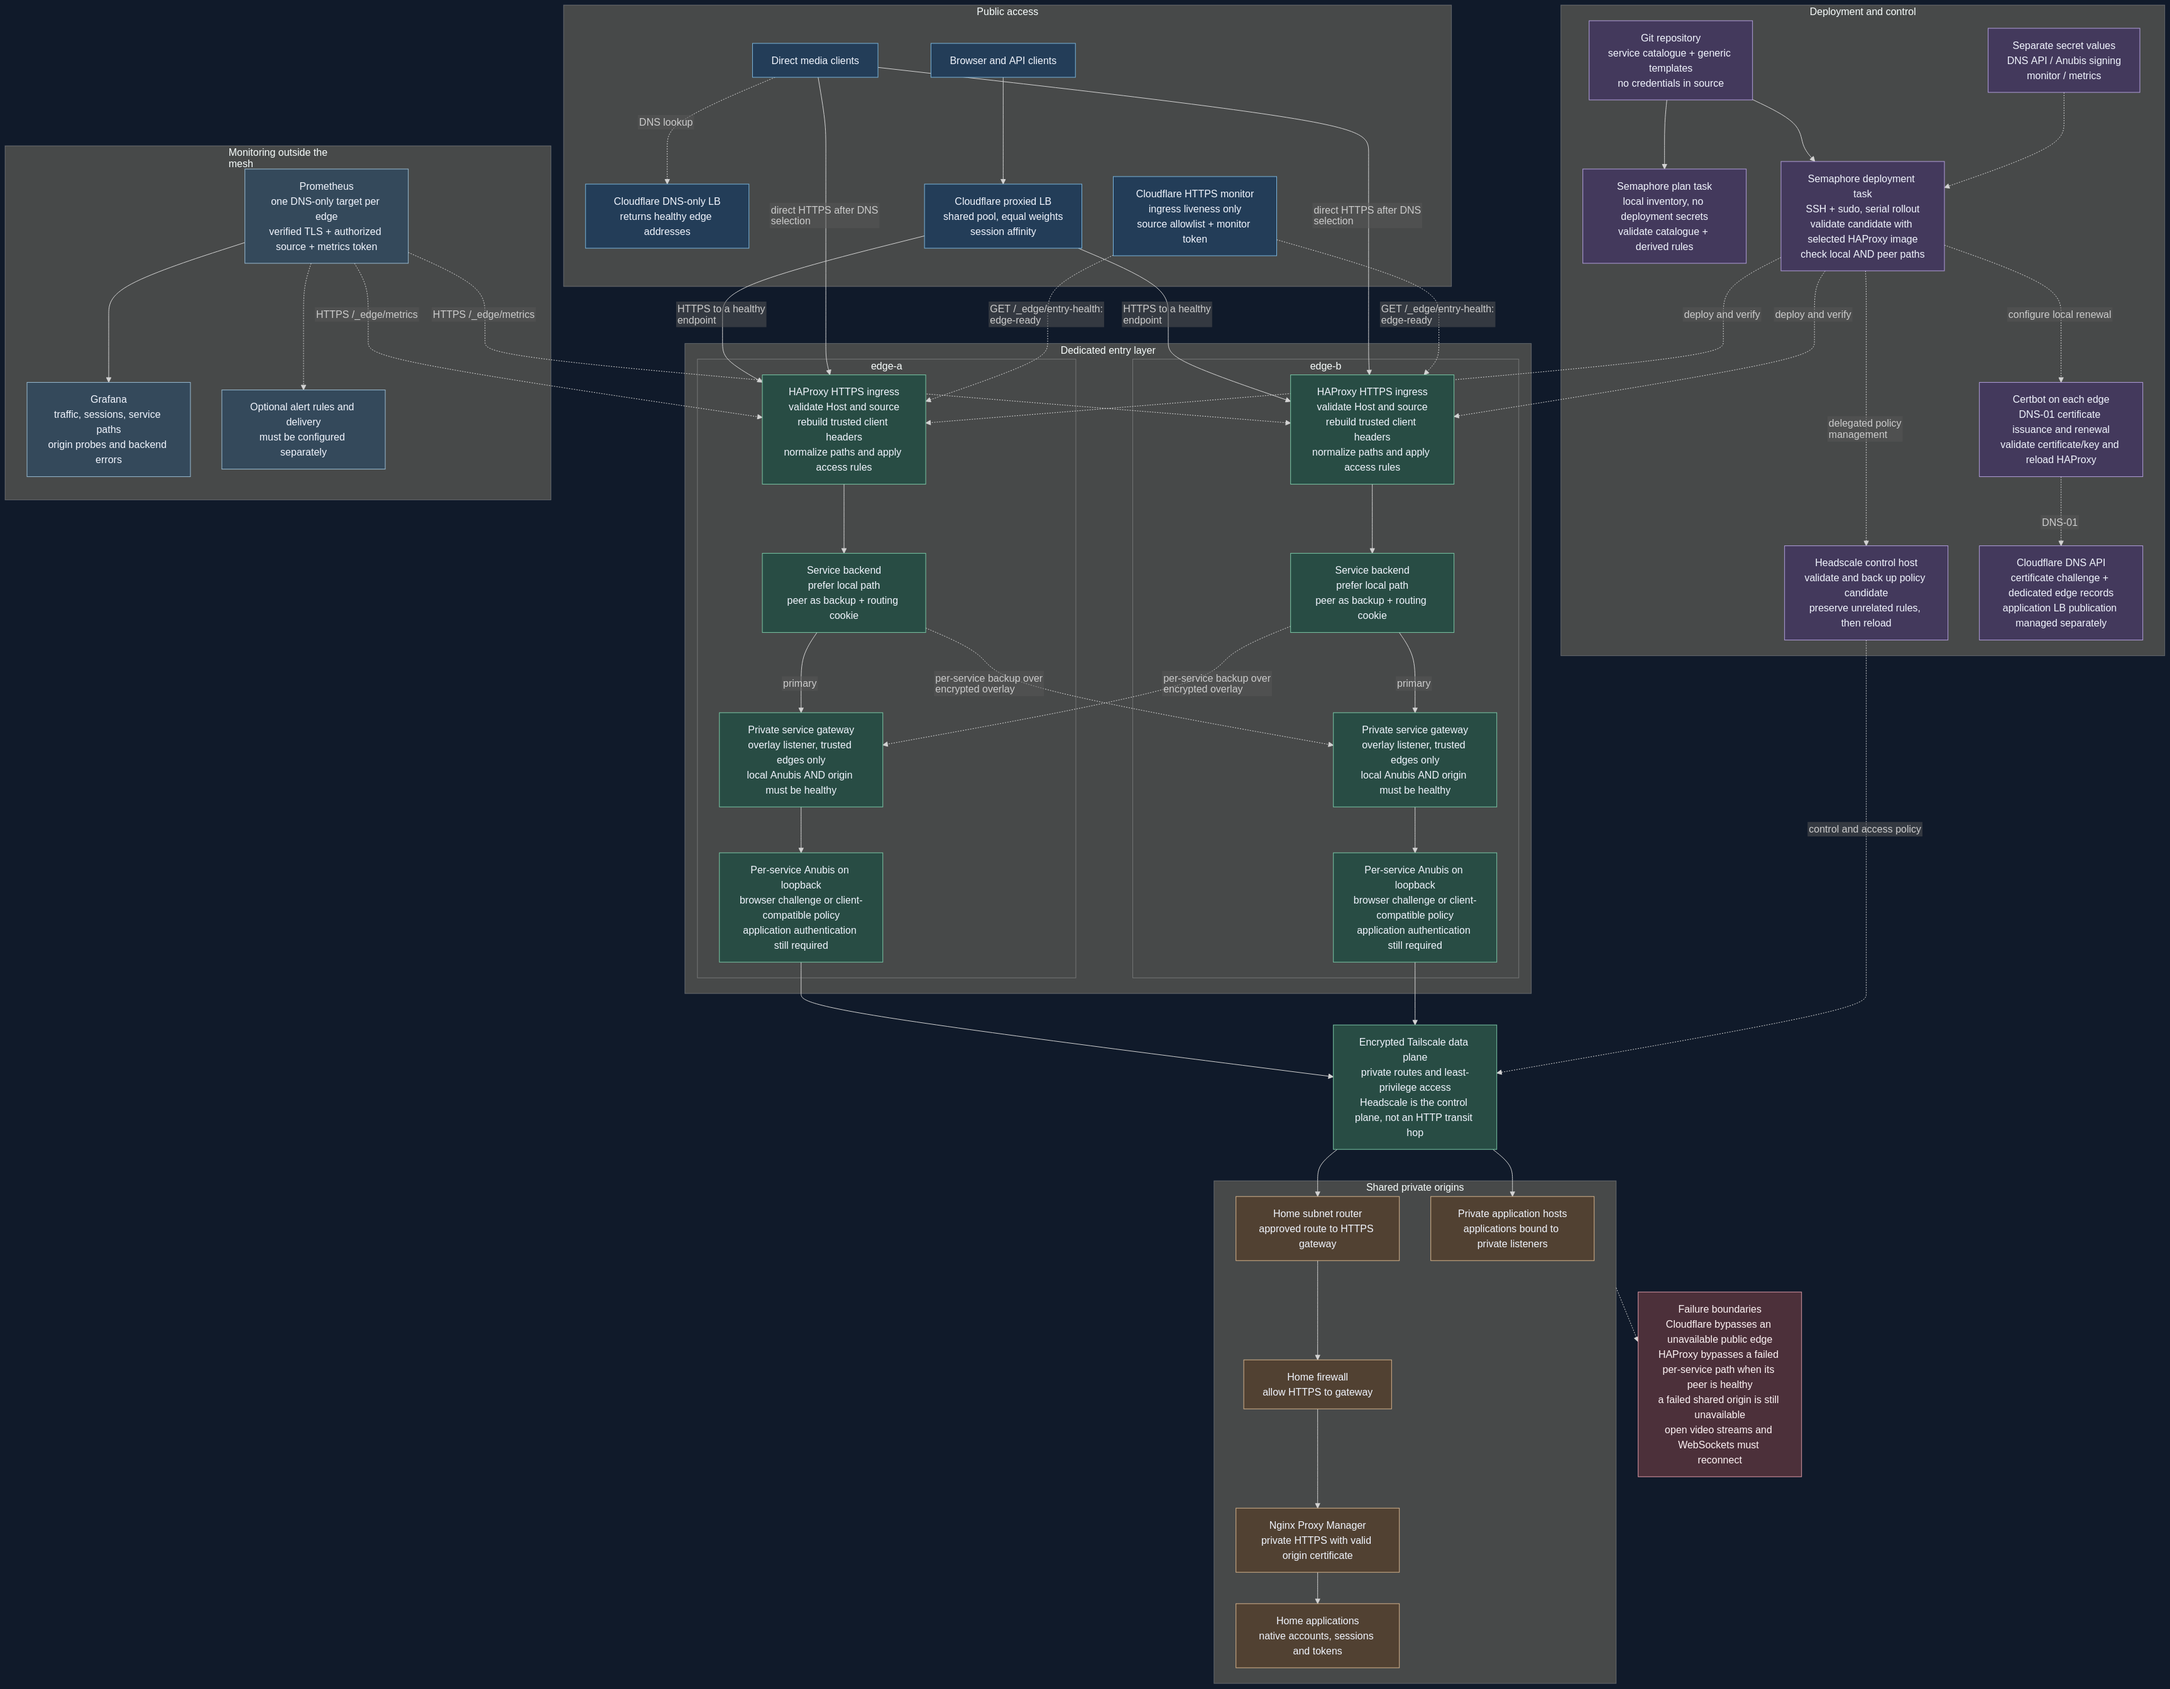
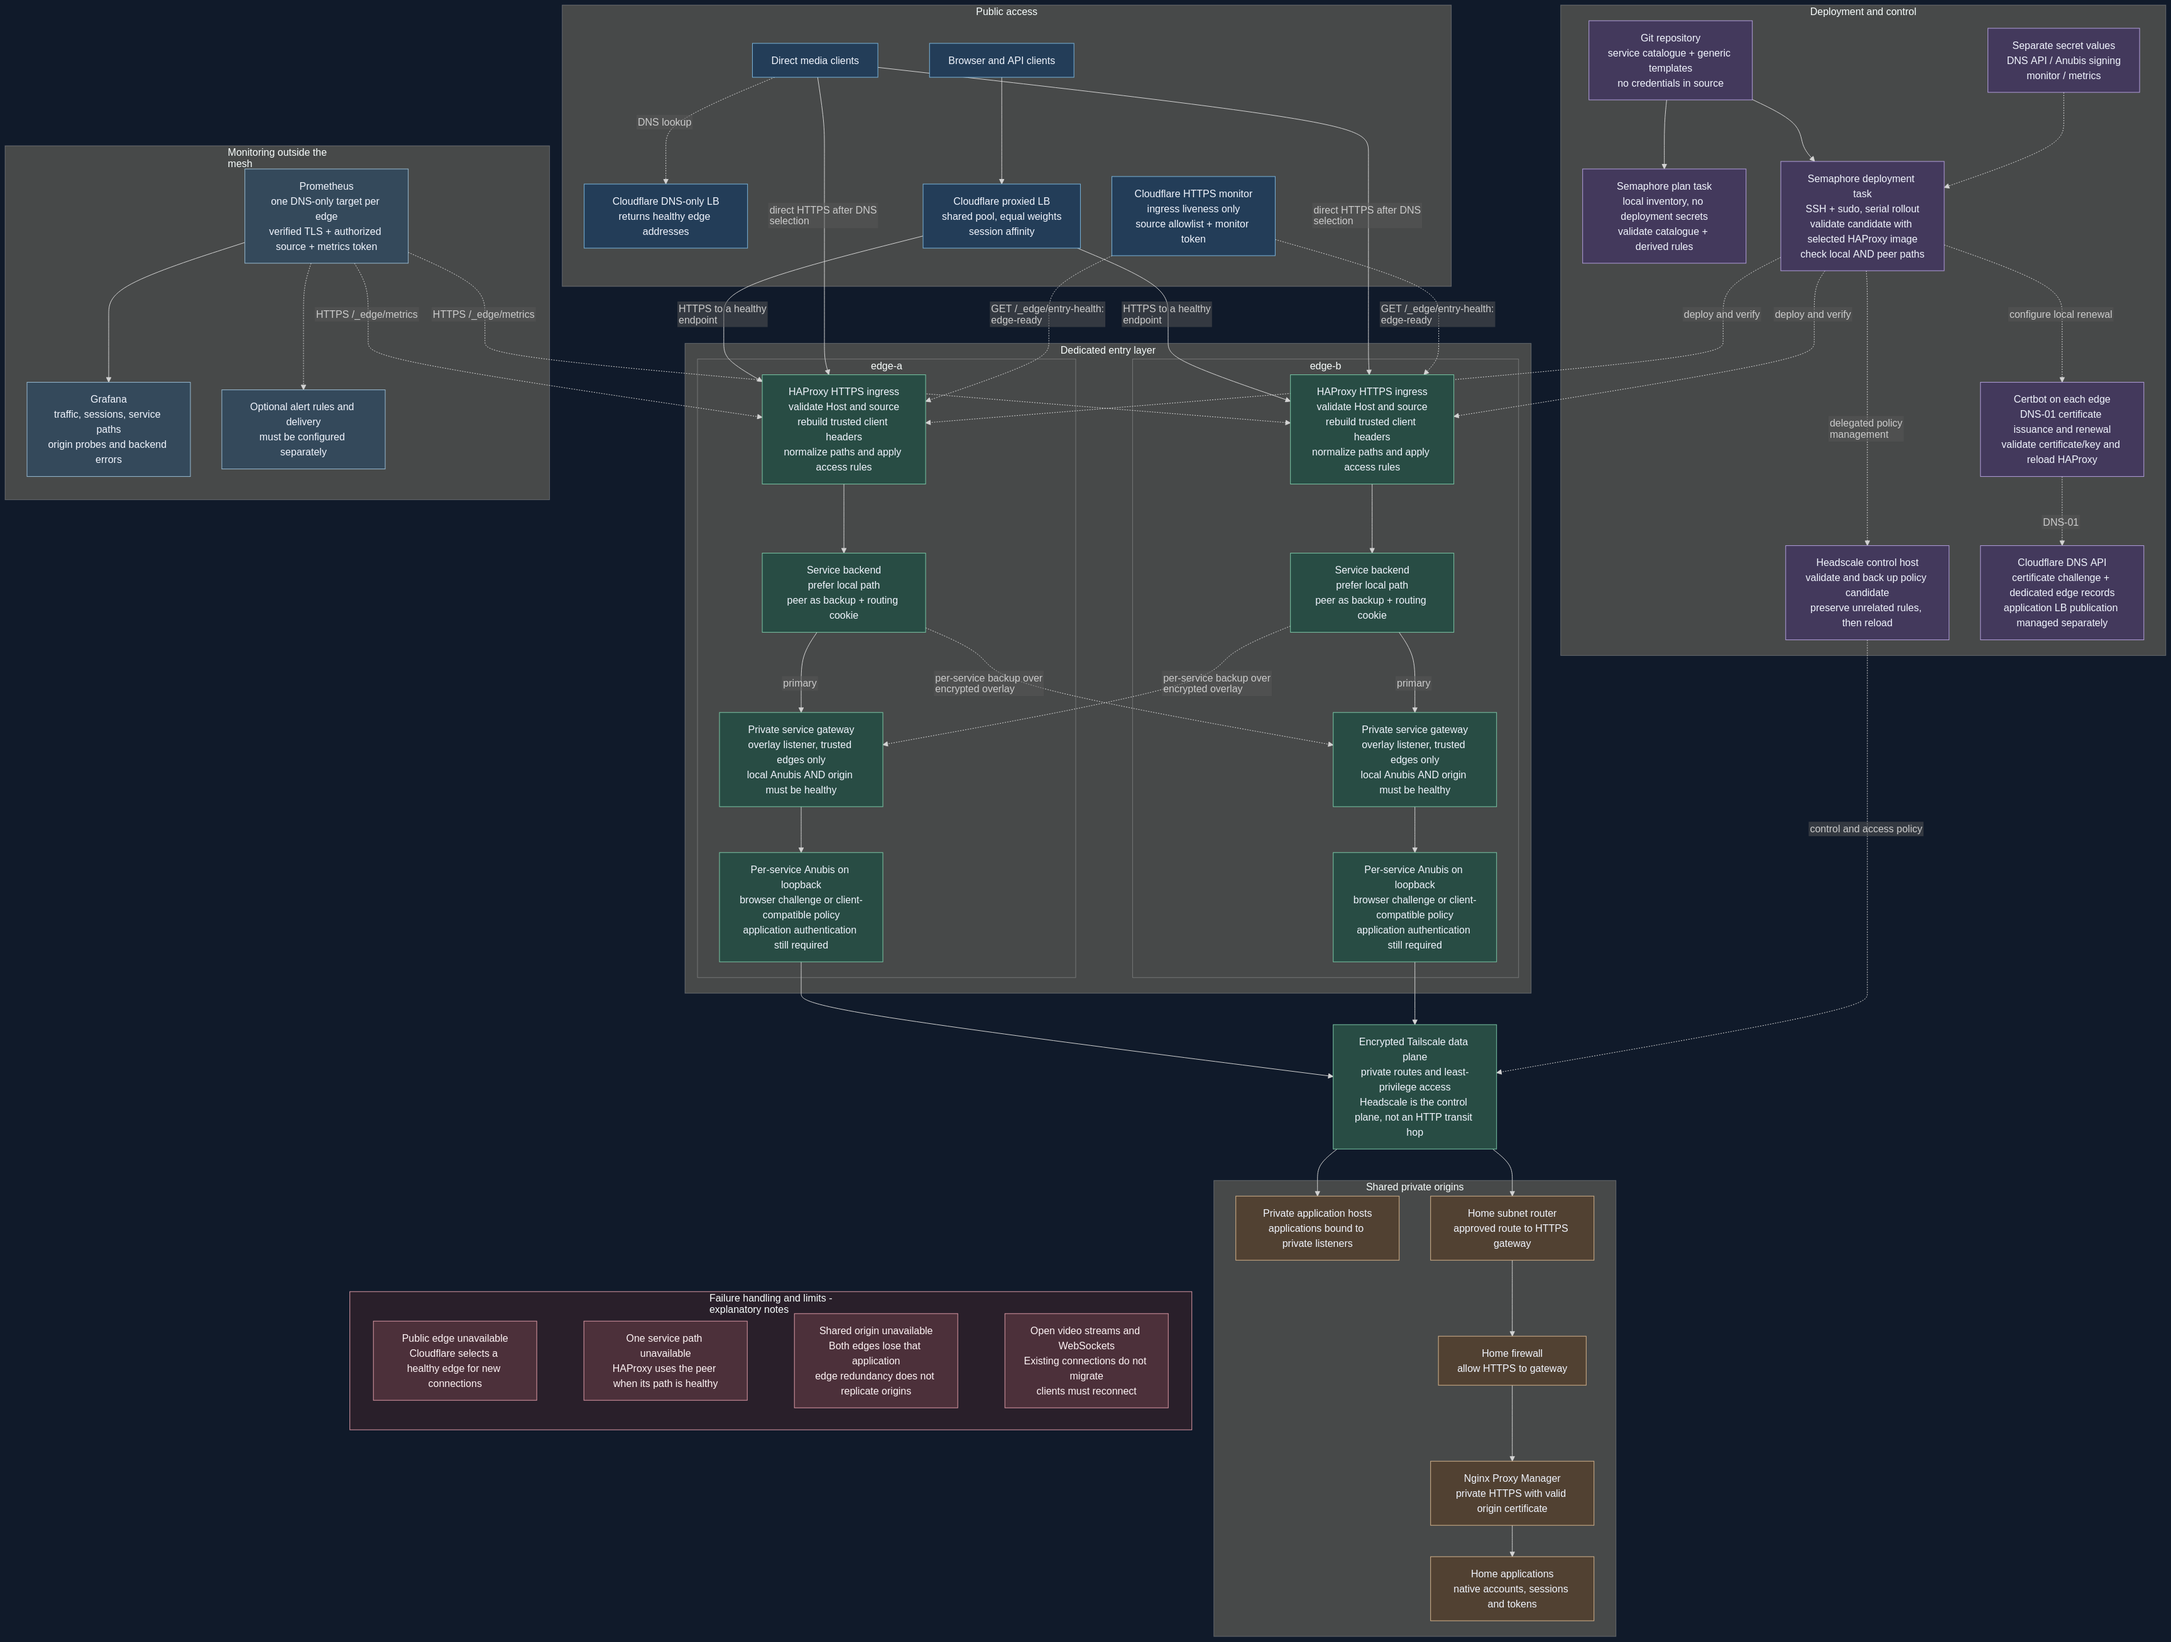
Separate redundancy notes from infrastructure flows

diff --git a/load-balancing-my-homelab/diagrams/README.md b/load-balancing-my-homelab/diagrams/README.md
@@ -96,8 +96,17 @@ flowchart TB
     PROM -. "HTTPS /_edge/metrics" .-> HA
     PROM -. "HTTPS /_edge/metrics" .-> HB
 
-    LIMITS["Failure boundaries<br/>Cloudflare bypasses an unavailable public edge<br/>HAProxy bypasses a failed per-service path when its peer is healthy<br/>a failed shared origin is still unavailable<br/>open video streams and WebSockets must reconnect"]
-    ORIGINS -.-> LIMITS
+    subgraph BOUNDARIES["Failure handling and limits - explanatory notes"]
+        direction LR
+        LIMIT_EDGE["Public edge unavailable<br/>Cloudflare selects a healthy edge for new connections"]
+        LIMIT_PATH["One service path unavailable<br/>HAProxy uses the peer when its path is healthy"]
+        LIMIT_ORIGIN["Shared origin unavailable<br/>Both edges lose that application<br/>edge redundancy does not replicate origins"]
+        LIMIT_STREAM["Open video streams and WebSockets<br/>Existing connections do not migrate<br/>clients must reconnect"]
+        LIMIT_EDGE ~~~ LIMIT_PATH ~~~ LIMIT_ORIGIN ~~~ LIMIT_STREAM
+    end
+
+    %% Invisible positioning only: this is not a data-flow connection.
+    ORIGINS ~~~ BOUNDARIES
 
     classDef public fill:#233d58,stroke:#7ab5dc,color:#f2f6ff
     classDef edge fill:#284c44,stroke:#7bc8a7,color:#f2f6ff
@@ -110,5 +119,6 @@ flowchart TB
     class VPS,ROUTER,FW,NPM,APPS origin
     class GIT,PLAN,DEPLOY,SECRETS,HS,CERT,CFAPI ops
     class PROM,GRAF,ALERT monitor
-    class LIMITS note
+    class LIMIT_EDGE,LIMIT_PATH,LIMIT_ORIGIN,LIMIT_STREAM note
+    style BOUNDARIES fill:#291f2a,stroke:#dd9ba7,color:#fff5f6
 ```

diff --git a/load-balancing-my-homelab/content/index.md b/load-balancing-my-homelab/content/index.md
@@ -85,7 +85,7 @@ earlier state of the lab.
 <p>This diagram separates visitor traffic from deployment, control and monitoring. Application groups are illustrative; no real service catalogue, hostnames or private addresses are included. Solid arrows show the main flow within each section, while dashed arrows identify secondary paths, checks or control operations.</p>
 <figure>
 <a href="../img/infrastructure-overview.png"><img src="../img/infrastructure-overview.png" alt="Detailed anonymized architecture: Cloudflare proxy and DNS-only access, two HAProxy and Anubis edges, private service failover, Tailscale origins, Semaphore deployment, Headscale policy, certificates and Prometheus monitoring" loading="lazy" /></a>
-<figcaption>Open the image at full size to follow the paths. Cloudflare checks the public entrance; each HAProxy checks its application paths. The shared origins remain a common dependency.</figcaption>
+<figcaption>Open the image at full size to follow the paths. The separate red panel explains failure handling and redundancy limits; it is not an infrastructure component or a traffic path. Cloudflare checks the public entrance; each HAProxy checks its application paths.</figcaption>
 </figure>
 <p>The <a href="../files/infrastructure-mermaid.txt">Mermaid source</a> describes this generic architecture. It is maintained documentation, not a production configuration export.</p>
 
